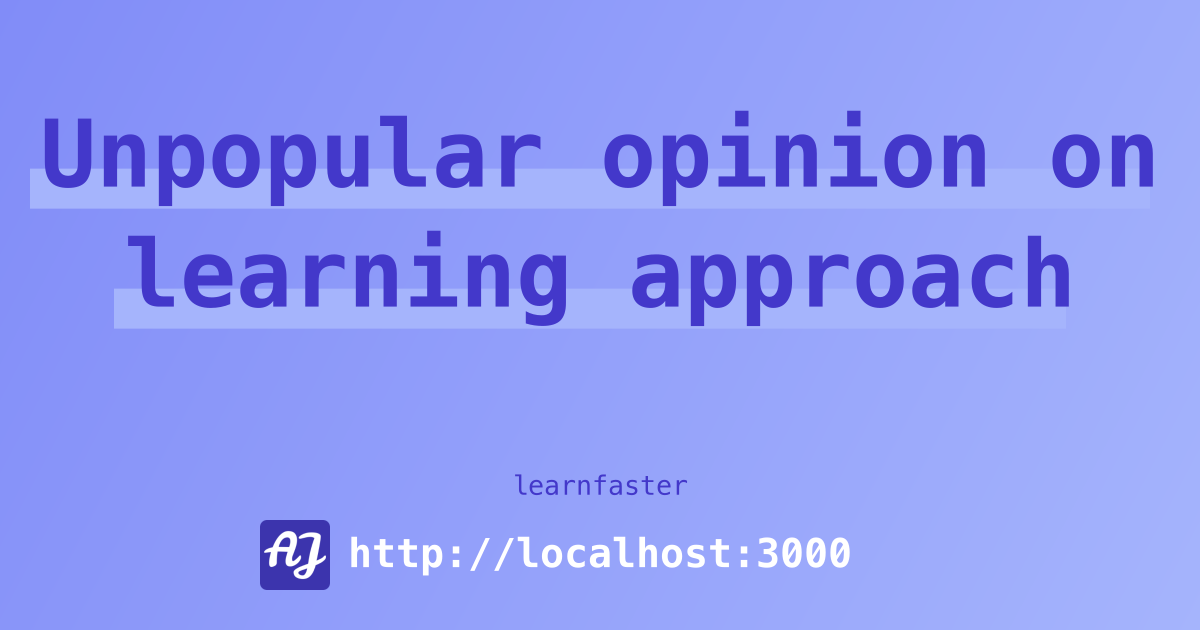
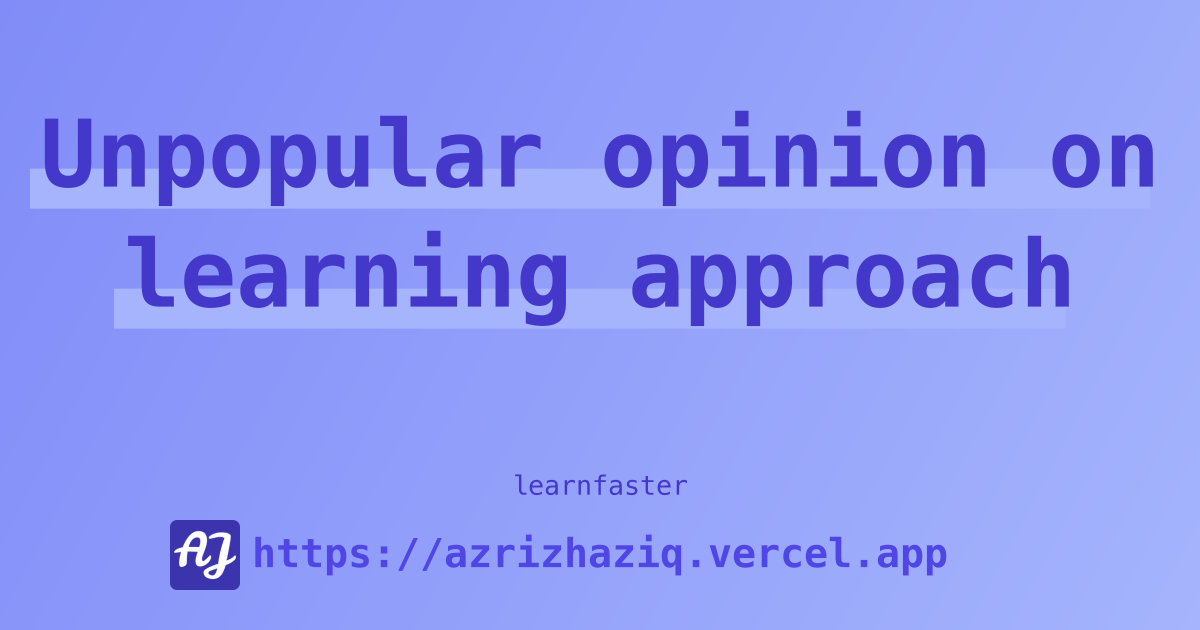
fix img url to fix with prod url

Changed region(s): [[0.1233, 0.8143, 0.8017, 0.9349]]

diff --git a/helpers/server/generate-blog-img.ts b/helpers/server/generate-blog-img.ts
@@ -60,12 +60,12 @@ const writeTagInCanvas = (context: NodeCanvasRenderingContext2D, texts: string[]
 }
 
 const writeFooterInCanvas = async (context: NodeCanvasRenderingContext2D, y: number) => {
-  context.fillStyle = '#fff'
+  context.fillStyle = getColor(7)
   context.font = 'bold 30pt Menlo'
-  context.fillText(process.env.NEXT_PUBLIC_BASE_URL as string, 600, 530)
+  context.fillText('https://azrizhaziq.vercel.app', 600, 530)
 
   const image = await loadImage('./public/android-chrome-192x192.png')
-  context.drawImage(image, 260, y, 70, 70)
+  context.drawImage(image, 170, y, 70, 70)
 }
 
 const getYPos = (rowCount: number) => {
@@ -79,9 +79,8 @@ export const writeToFile = async (slug: string, canvas: Canvas) => {
   const stream = canvas.createPNGStream()
 
   stream.pipe(out)
-  out.on('ready', () => console.log(`${slug}.png ready`)) // eslint-disable-line no-console
-  out.on('finish', () => console.log(`${slug}.png created`)) // eslint-disable-line no-console
-  out.on('error', e => console.log(`${slug}.png error: ${e}`)) // eslint-disable-line no-console
+  out.on('finish', () => console.log(`created: ${slug}.png`)) // eslint-disable-line no-console
+  out.on('error', e => console.log(`error: ${slug}.png: ${e}`)) // eslint-disable-line no-console
 }
 
 export async function generateBlogImg({
